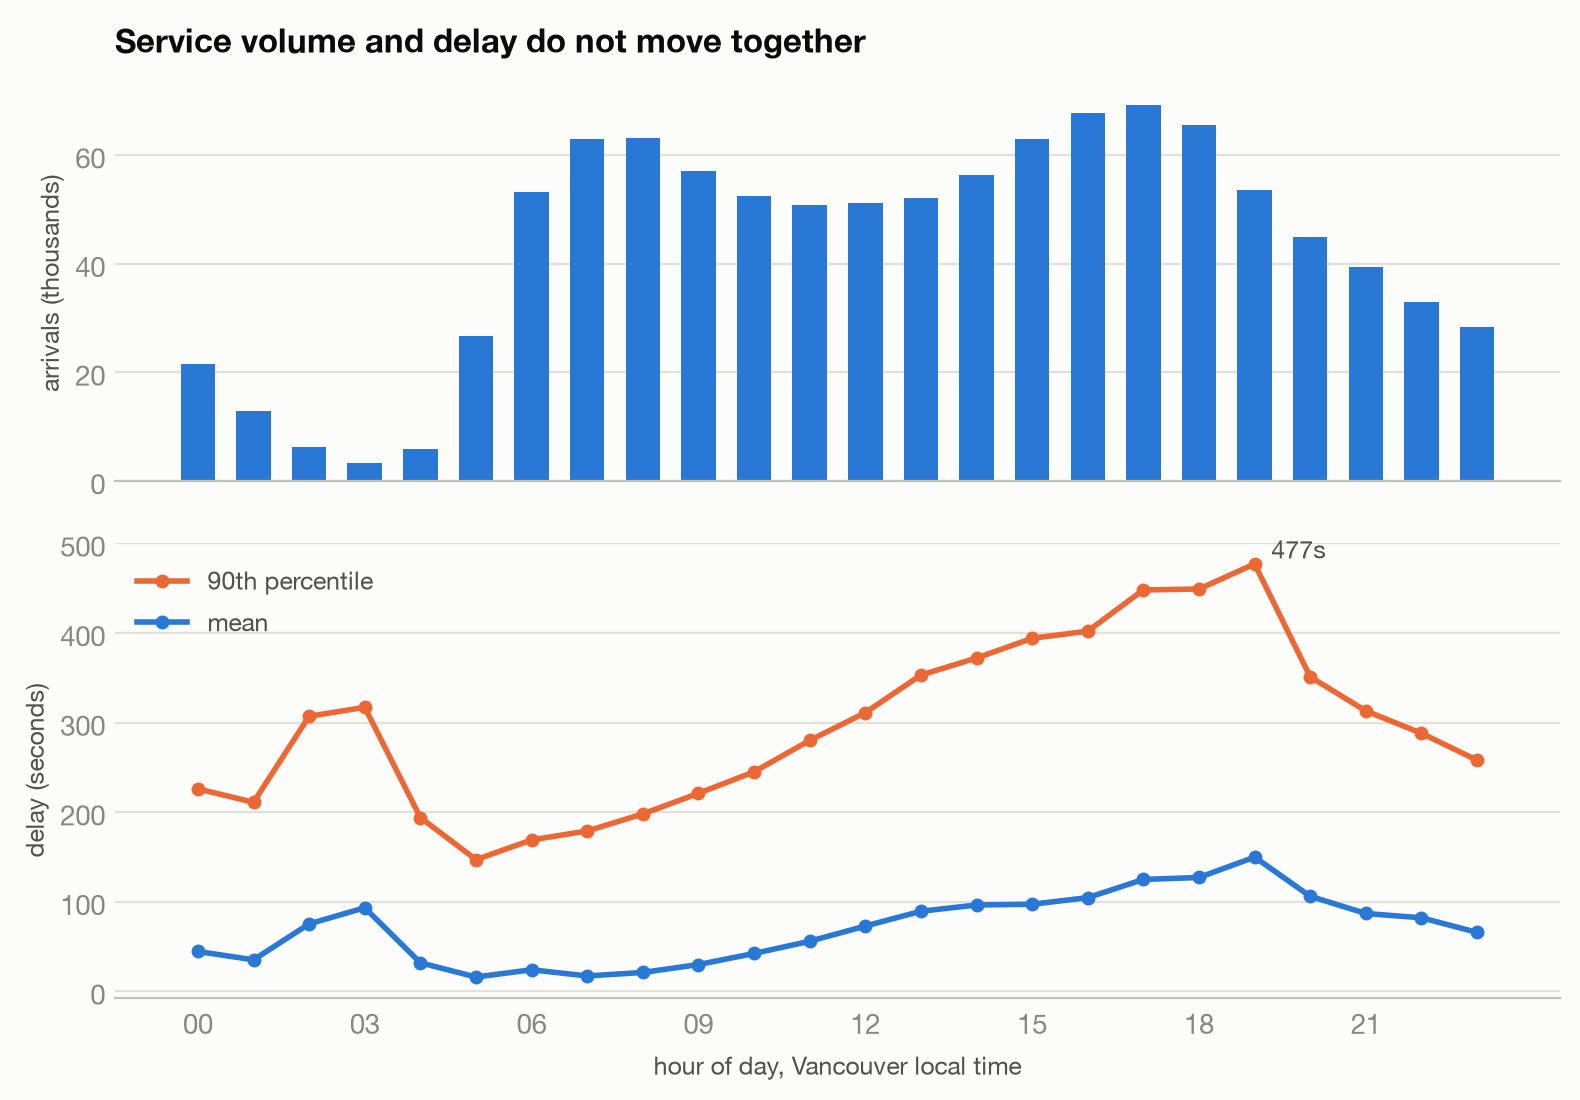
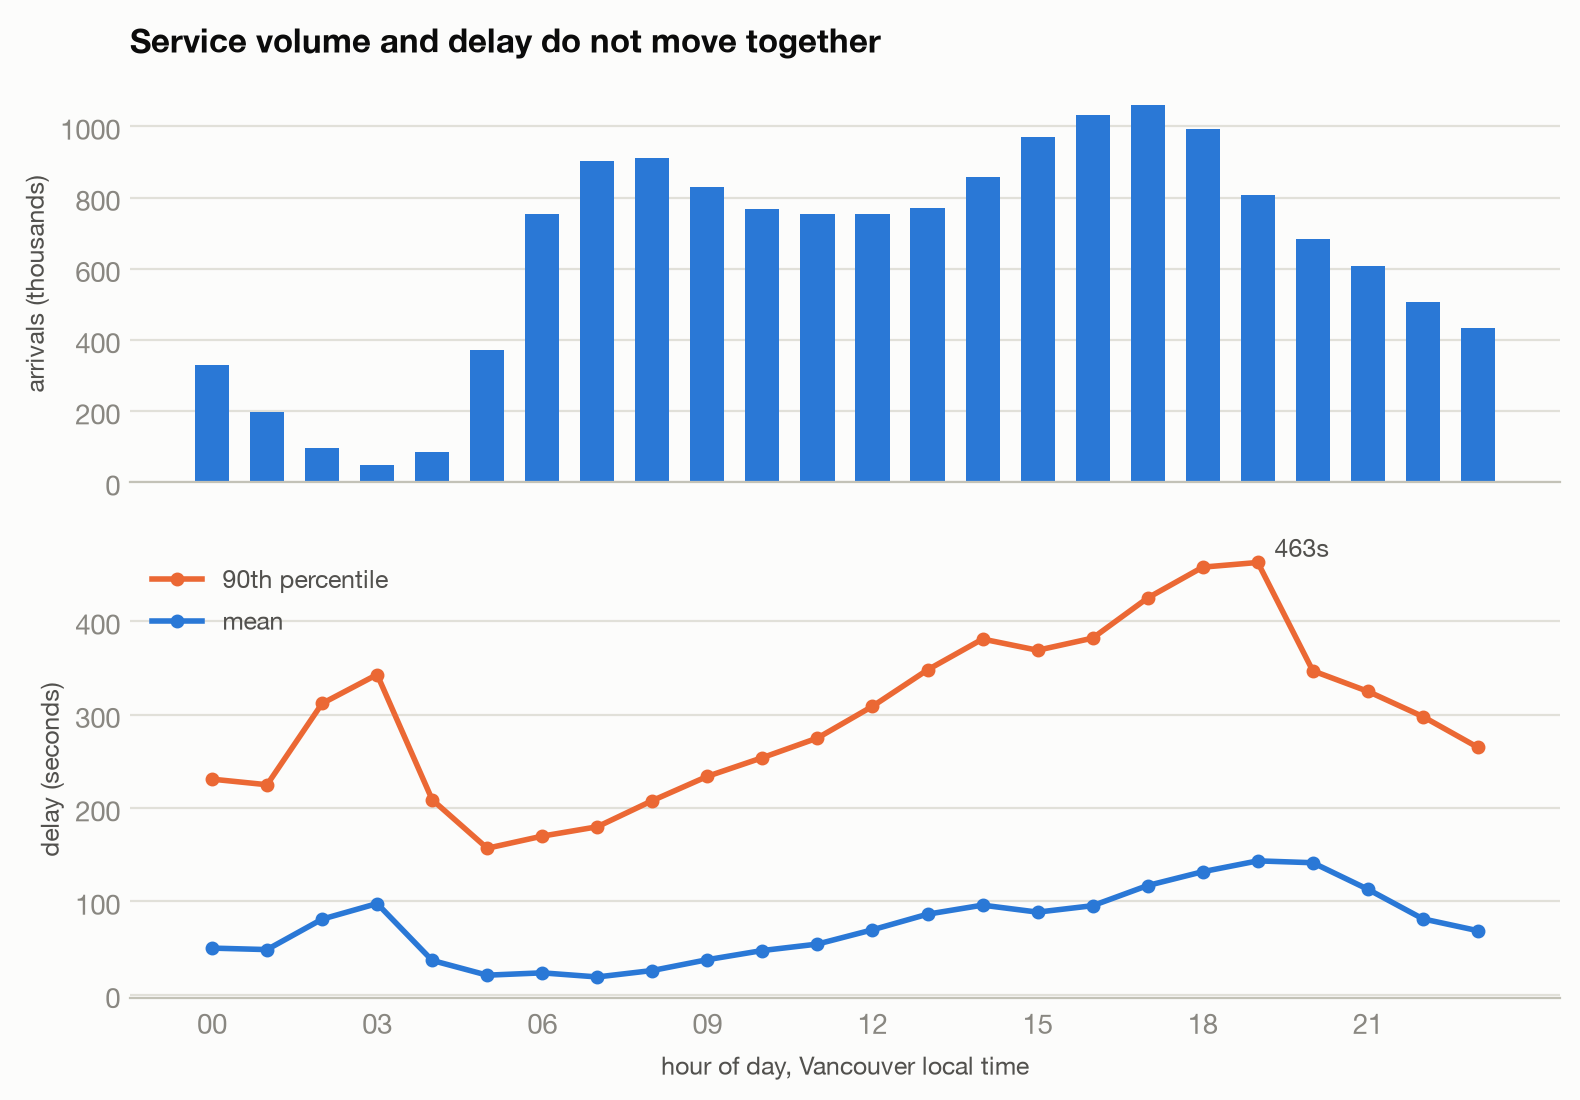
charts: rebuild the profile figures from all 15,525,290 rows
delay_distribution and hourly_profile were being drawn from the two test-split
parquet files that happened to be on disk, about 1M rows of a single week, while
their captions claimed the full collection. Both CSVs are now exported from
Athena over training_features with service_date <= 2026-09-06, which is exactly
the window the model was built from, and build_demo_data.py no longer overwrites
them unless --write-csvs is passed.

Two numbers in the README were wrong as a result, both inherited from the old
UTC-skewed data:
- the arrival swing between 3am and the afternoon peak is 22x, not 46x
- the quietest hour averages 97.8s of delay against 19.2s at 7am, which is a
  sharper version of the same point than the text was making

Also fixed the smallest bar's count label overflowing into its percentage.

diff --git a/scripts/build_demo_data.py b/scripts/build_demo_data.py
@@ -202,11 +202,16 @@ def sample(frame: pd.DataFrame) -> list[dict]:
 def write_profile_csvs(frame: pd.DataFrame, out_dir: Path) -> None:
     """Refresh the two CSVs the README charts are built from.
 
-    These were previously exported from Athena over `stop_events`, whose
-    hour_of_day was UTC -- so plot_profile.py compensated with a hard-coded -7.
-    Regenerating them here from the gold split means the hours are already
-    Vancouver local and the charts, the model metrics and the demo page all
-    describe the same rows.
+    NOT run by default. These CSVs describe the whole 27-day collection
+    (15,525,290 rows) and are exported from Athena over training_features, which
+    this script cannot see: it only has whatever slice of the test split is on
+    disk. Writing them from here silently shrank the README charts to one week
+    of data while leaving their captions claiming the full window. Pass
+    --write-csvs only when the local frame really is the whole table.
+
+    The queries that produce them properly are in the commit that added this
+    note; they filter service_date <= 2026-09-06 so every figure in the README
+    covers the same rows the model was built from.
     """
     out_dir.mkdir(parents=True, exist_ok=True)
 
@@ -243,6 +248,12 @@ def main() -> None:
     parser.add_argument("--test-glob", default="/tmp/feat/test/*.parquet")
     parser.add_argument("--out", default="docs/demo-data.json")
     parser.add_argument("--csv-dir", default="data/processed")
+    parser.add_argument(
+        "--write-csvs",
+        action="store_true",
+        help="overwrite the README chart CSVs from the local frame. Only correct "
+        "if that frame is the whole table rather than a downloaded slice.",
+    )
     args = parser.parse_args()
 
     booster, features, frame = load(Path(args.model_dir), args.test_glob)
@@ -257,7 +268,8 @@ def main() -> None:
         "samples": sample(frame),
     }
 
-    write_profile_csvs(frame, Path(args.csv_dir))
+    if args.write_csvs:
+        write_profile_csvs(frame, Path(args.csv_dir))
 
     out = Path(args.out)
     out.parent.mkdir(parents=True, exist_ok=True)

diff --git a/scripts/plot_profile.py b/scripts/plot_profile.py
@@ -85,9 +85,22 @@ def delay_distribution() -> None:
     y = range(len(df))[::-1]
     ax.barh(list(y), df["pct"], color=colors, height=0.68)
 
+    # The count sits inside the bar, but a 2% bar is far too narrow to hold
+    # "317,431" and the text spills out over the percentage beside it. Below the
+    # width where it fits, move the count outside and trail it after the percent.
     for yi, pct, n in zip(y, df["pct"], df["n"], strict=True):
-        ax.text(pct + 0.7, yi, f"{pct:.1f}%", va="center", fontsize=9, color=INK2)
-        ax.text(0.5, yi, f"{n:,}", va="center", fontsize=8, color=SURFACE)
+        if pct >= 6:
+            ax.text(0.5, yi, f"{n:,}", va="center", fontsize=8, color=SURFACE)
+            ax.text(pct + 0.7, yi, f"{pct:.1f}%", va="center", fontsize=9, color=INK2)
+        else:
+            ax.text(
+                pct + 0.7,
+                yi,
+                f"{pct:.1f}%   {n:,}",
+                va="center",
+                fontsize=9,
+                color=INK2,
+            )
 
     ax.set_yticks(list(y), df["label"], fontsize=9, color=INK2)
     ax.set_xlim(0, df["pct"].max() * 1.16)

diff --git a/README.md b/README.md
@@ -178,12 +178,14 @@ Decisions and their trade-offs are recorded in `docs/adr/`.
 15,849,990 stop arrivals over 28 days of collection (2026-08-11 to 2026-09-07), label completeness 0.990.
 <!-- agent:dataprofile:end -->
 
-The charts below are drawn by `python scripts/plot_profile.py` from the CSVs in
-`data/processed/`, which `scripts/build_demo_data.py` regenerates from the same
-held-out split the model was scored on. One source of numbers for the charts, the
-metrics and the demo page.
+The two charts below cover the whole collection, all 15,525,290 gold rows across
+27 service days. They are drawn by `python scripts/plot_profile.py` from CSVs
+exported out of Athena over `transitpulse.training_features`, filtered to
+`service_date <= 2026-09-06` so they describe exactly the rows the model was
+built from. The model charts further up cover the held-out test week only, which
+is the honest scope for anything claiming a score.
 
-![Arrival delay distribution: 42% late, 38% on time, 21% early](img/delay_distribution.png)
+![Arrival delay distribution: 41% late, 38% on time, 21% early](img/delay_distribution.png)
 
 Buses run late more often than early, but the distribution is wide in both
 directions: 21% of arrivals are more than a minute *ahead* of schedule. That is
@@ -192,11 +194,14 @@ has a floor of −1800 seconds rather than zero.
 
 ![Hourly service volume and delay profile](img/hourly_profile.png)
 
-The 46× swing in arrivals between 3am and the afternoon peak is the feed
-reflecting how many buses are actually on the road. The second panel is the
-interesting one: **volume and delay do not move together.** The busiest hours are
-not the worst ones, and the quietest hour of the night carries a higher mean delay
-than the morning rush.
+The 22× swing in arrivals between 3am (49,306) and the 5pm peak (1,060,983) is
+the feed reflecting how many buses are actually on the road. The second panel is
+the interesting one: **volume and delay do not move together.** The busiest hour
+is 17:00, but the worst mean delay is at 19:00, after the peak has passed. And
+3am, the quietest hour of the night, averages **97.8 seconds of delay against
+19.2 seconds at 7am**: five times worse at a twentieth of the volume. An
+overnight route running every 30 minutes has no slack to absorb anything, while
+the morning rush is the hour the timetable is actually written for.
 
 Volume and delay are plotted on separate stacked axes rather than a shared one,
 because a dual-axis chart lets you imply any correlation you like by sliding the
